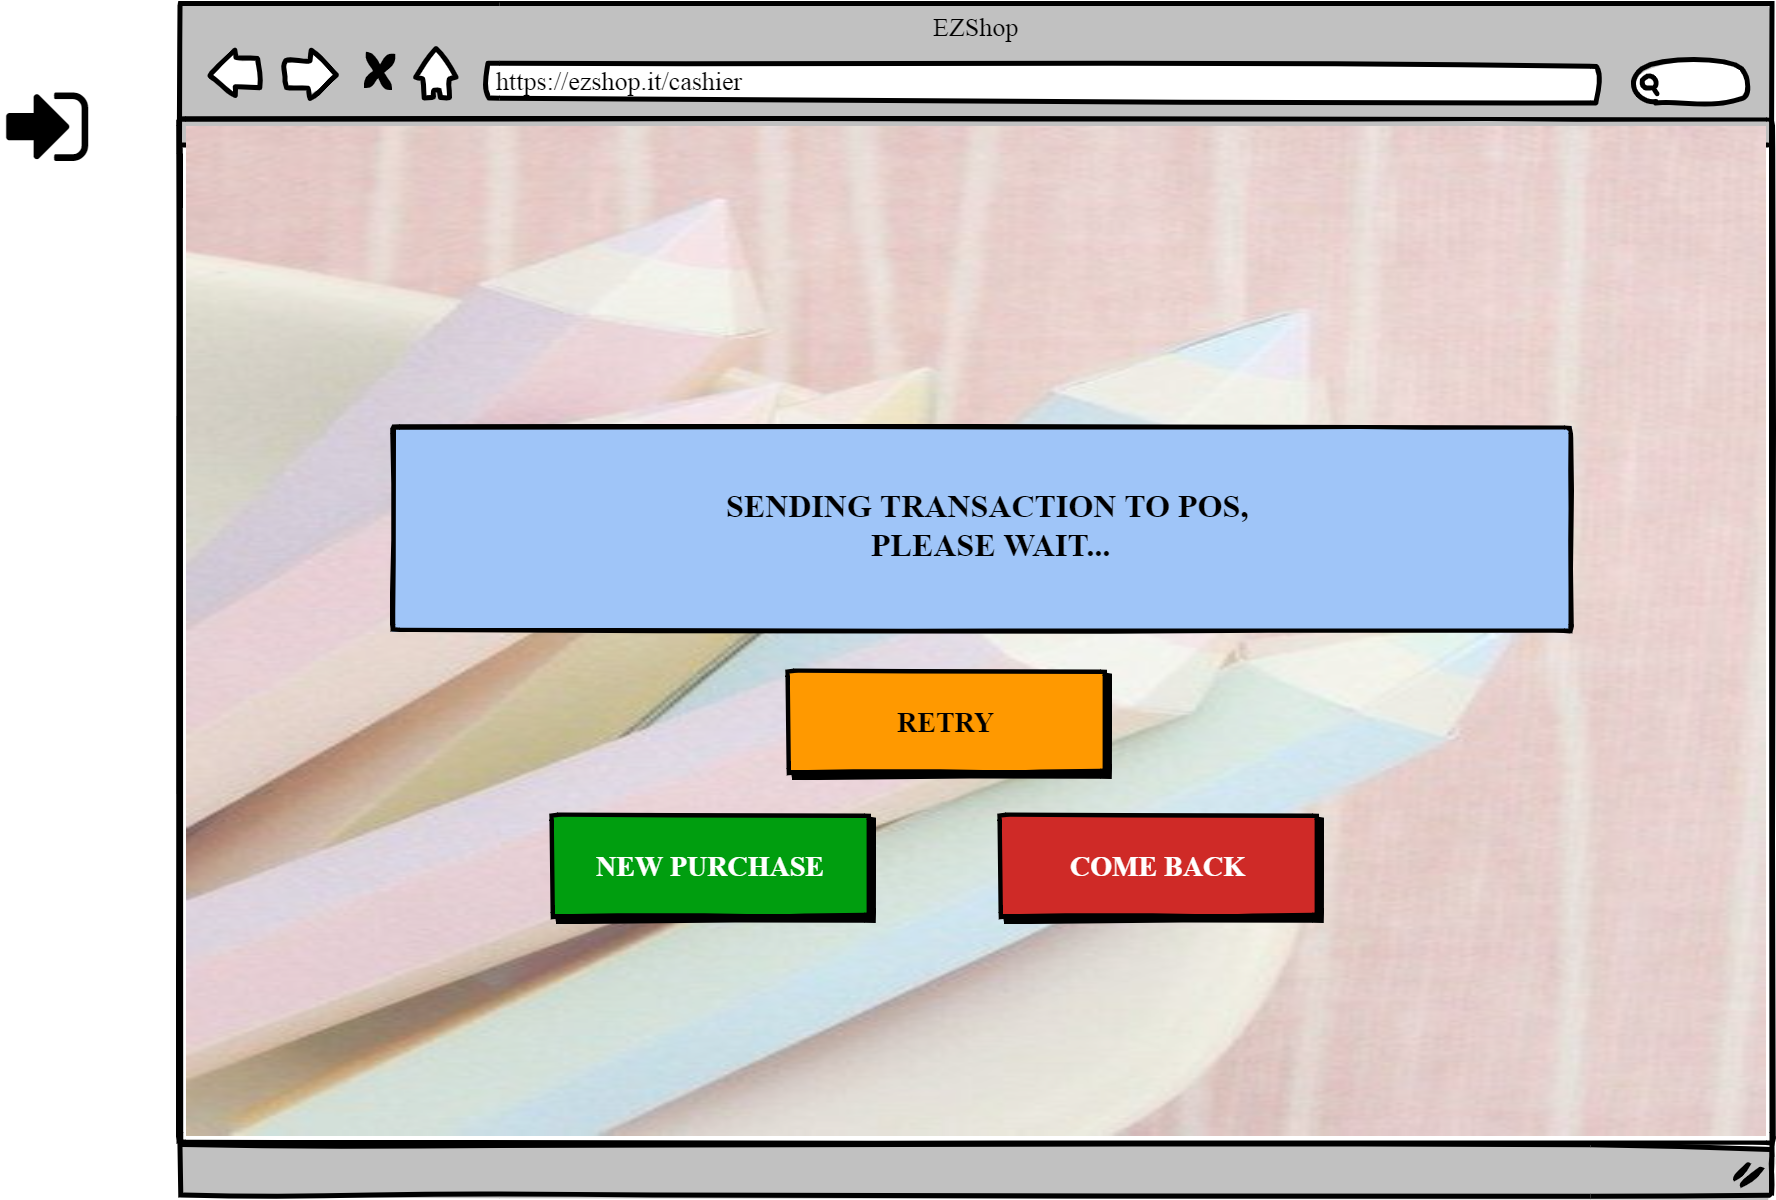
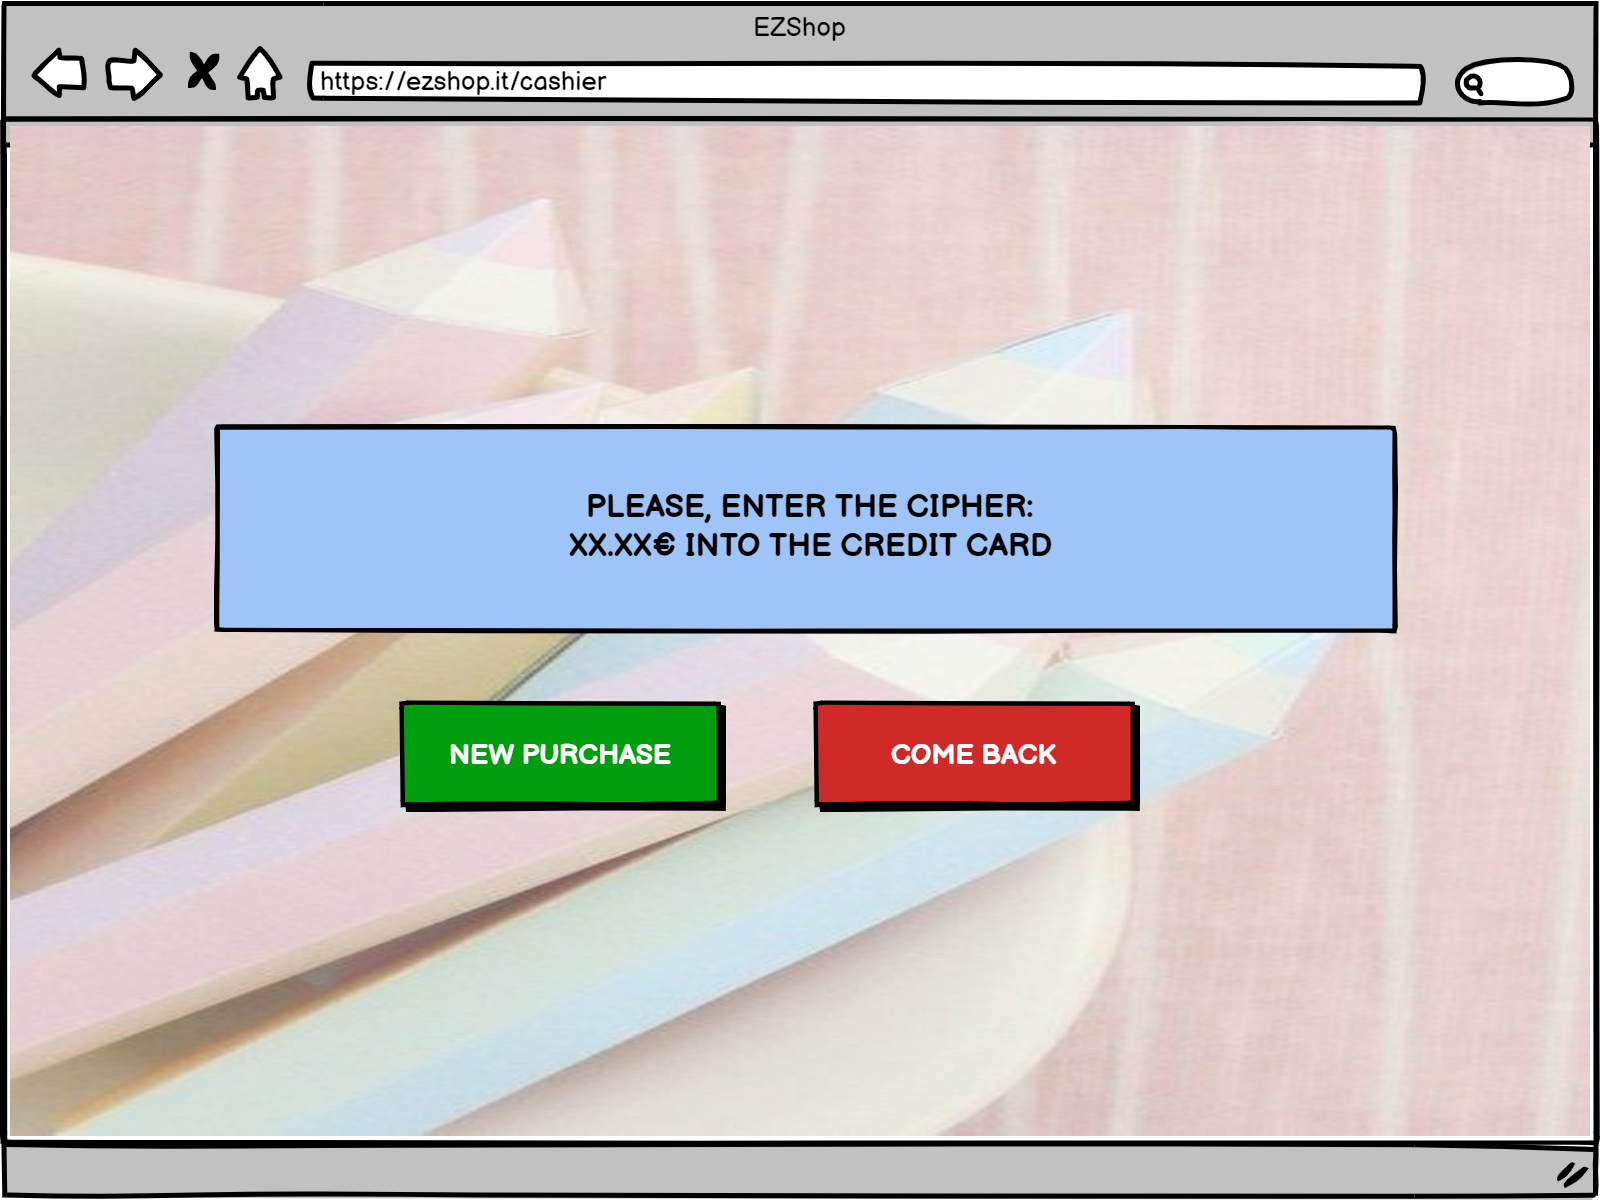
GUI: Use cases 1, 2 and 11 (except scenarios 11.2,11.3

diff --git a/Deliverables/GUIPrototype.md b/Deliverables/GUIPrototype.md
@@ -6,6 +6,90 @@ Date:
 
 Version:
 
+
+
+### Use case 1, UC1
+
+Handle sale transactions between cashier and customer
+
+# Scenario 1.1.1
+
+- To start a purchase, the cashier has just to start scanning products in their main page. <br>
+
+![](Images/GUI/Cashier_main.png)
+
+- Once all the products are scanned, the cashier only will have to enter the amount of money that is going to paid (the cash given if cash of the exact amount purchased if credit card) and click in "Pay"<br>
+- Then the cashier will have to choose the method of payment (credit card or cash) in the next view.<br>
+
+![](Images/GUI/payment.png)
+
+- If the cashier chooses credit card, he/she will be redirected to the next view, where he/she will see the amount of money that will have to enter into the credit card reader. <br>
+- Until the cashier does not click in new purchase, the ticket will not be printed and the transaction will not be registered  <br>
+- The cashier can also come back to the on going purchase by clicking in "come back"<br>
+
+![](Images/GUI/credit_card.png)
+
+- If the cashier chooses cash, he/she will see the next view where it is possible to see the amount of money the cashier has to give back <br>
+- Like in the previous case, once the button new purchase is clicked, the ticket will be printed and the purchase registered <br>
+
+![](Images/GUI/cash.png)
+
+
+# Scenario 1.1.2
+
+- For performing a purchase with fidelity card, the cashier has an option in their main page: "Fidelity Card".<br>
+- The process is exactly the same as in the last scenario, the cashier only has to click in the "fidelity card" button in any moment during the purchase and ask the customer to scan it or also, the cashier can enter the Number of the card manually in the next view.<br>
+- By clicking in Ok, the cashier can come back to the purchase.<br>
+
+![](Images/GUI/fidelity.png)
+
+
+
+# Scenario 1.2
+
+- In the main page, The cashier has the button "Cancel purchase" in the main. This way, he/she can easyly abort the transaction in any moment he/she desires. After clicking, he/she will be redirected to the main page again.<br>
+
+# Scenario 1.3
+
+- In the main page, the cashier can click in the little "trash" next to each product in order to delete a specific product from the purchase.<br>
+
+# Scenarion 1.4
+
+- If a product is not readable, the customer can enter manually the number of the product in the next view.<br>
+
+![](Images/GUI/Product_Number.png)
+
+
+Handle sale transaction between supplier  and  stationery shop
+
+
+### Use case 1, UC1
+
+Handle sale transaction between supplier  and  stationery shop
+
+# Scenario 2.1
+
+- The clerk is in their main page and clicks in start transaction.<br>
+
+![](Images/GUI/clerk_main_page.png)
+
+- The clerk chooses from the transaction list, the transaction (between shop and supplier) that he/she is going to check and registered.<br>
+
+![](Images/GUI/select_supplier_transaction.png)
+
+
+-In the next view, the clerk can add the actual quantity that is in the received package and compare it to the one ordered.<br>
+
+- When the transaction is finished the clerk can click in submit, a certification will be printed and the clerk will be logget out <br>
+
+# Scenario 2.2
+
+- The clerk can abort the transaction just by clicking the "Cancel Transaction" button  <br>
+
+![](Images/GUI/supplier_transaction.png)
+
+
+ 
 ### Use case 3, UC3
 
 Authorize and authenticate
@@ -435,6 +519,28 @@ Create an order from a supplier
 <br>
 
 ![](Images/GUI/Order_Menu.png)
+
+### Use case 11, UC11
+
+Add/modify or delete a product record
+
+# Scenario 11.1
+
+- The manager can see the "Show Glossary option" to see the inventory from the main page below<br>
+- The manager can just click in the item record icon to see the details of a certain product record<br>
+
+![](Images/GUI/manager.png)
+
+
+- In the inventory page below, the manager can just click in the item record icon to see the details of a certain product record<br>
+
+![](Images/GUI/inventory.png)
+
+# Scenario 11.2
+- The manager can see from the inventory page the threshold of a certain product that will set a alarm. In order to change this threshold, the manager just have to click in the corresponding "+".<br>
+- The next
+
+
 
 ### Use case 12, UC12
 

diff --git a/Deliverables/RequirementsDocument.md b/Deliverables/RequirementsDocument.md
@@ -268,7 +268,7 @@ Handle sale transaction between supplier and stationery shop
 | Precondition     | - Authentication of the clerk <br>- The barcode reader and the keypad is working |
 | Post condition   | - The transaction is terminated <br>- The clerk is logged out.                   |
 | Nominal Scenario | Scenario 2.1                                                                     |
-| Variants         | Scenario 2.2,2.3                                                                 |
+| Variants         | Scenario 2.2                                                                 |
 
 # Scenario 2.1
 
@@ -290,28 +290,6 @@ Good transaction
 | 9              | End transaction                                                                                                |
 
 # Scenario 2.2
-
-Transaction done but some product was removed
-
-| Scenario 2.2   |                                                                                                              |
-| -------------- | ------------------------------------------------------------------------------------------------------------ |
-| Precondition   | - Authentication of the clerk <br> - The monitor is working                                                  |
-| Post condition | The transaction is terminated <br> -The transaction is recorded by the software<br> -The clerk is logged out |
-| Step#          | Description                                                                                                  |
-| 1              | Start transaction                                                                                            |
-| 2              | Choose from transaction list                                                                                 |
-| 3              | Retrieve name from the list of transaction’s product                                                         |
-| 4              | Input the quantity of the product                                                                            |
-| 5              | Repeat step 2 and 3 for each product                                                                         |
-| 6              | Change the quantity                                                                                          |
-| 7              | Delete a product                                                                                             |
-| 8              | Repeat step 5 and 6 for all to be changed products                                                           |
-| 9              | End insertion of products                                                                                    |
-| 10             | Register the transaction in the software                                                                     |
-| 11             | Print a certification                                                                                        |
-| 12             | End transaction                                                                                              |
-
-# Scenario 2.3
 
 Transaction done but some product was removed
 
